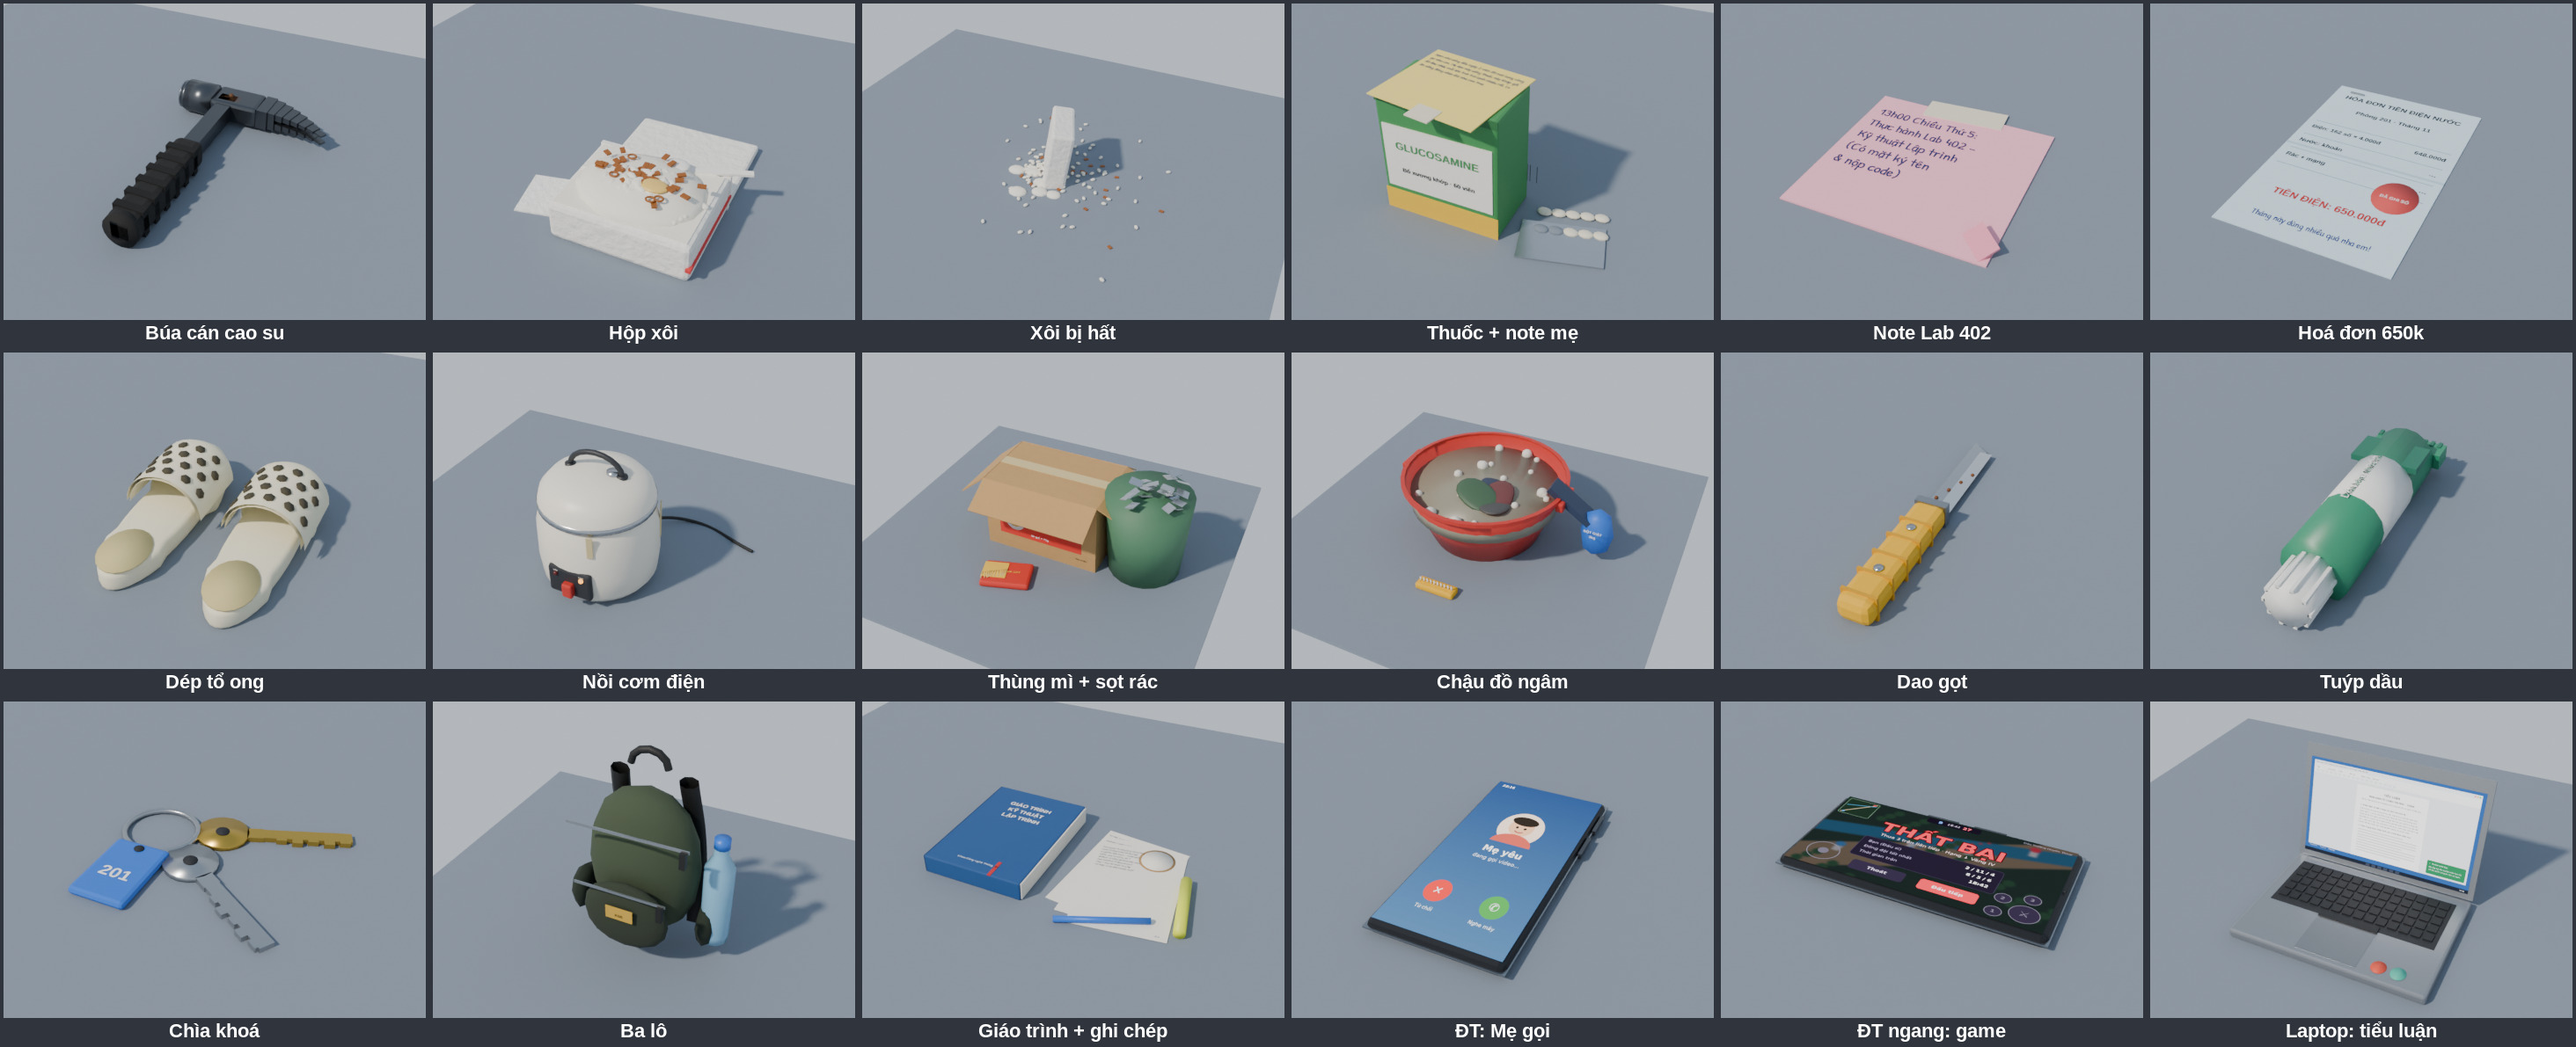
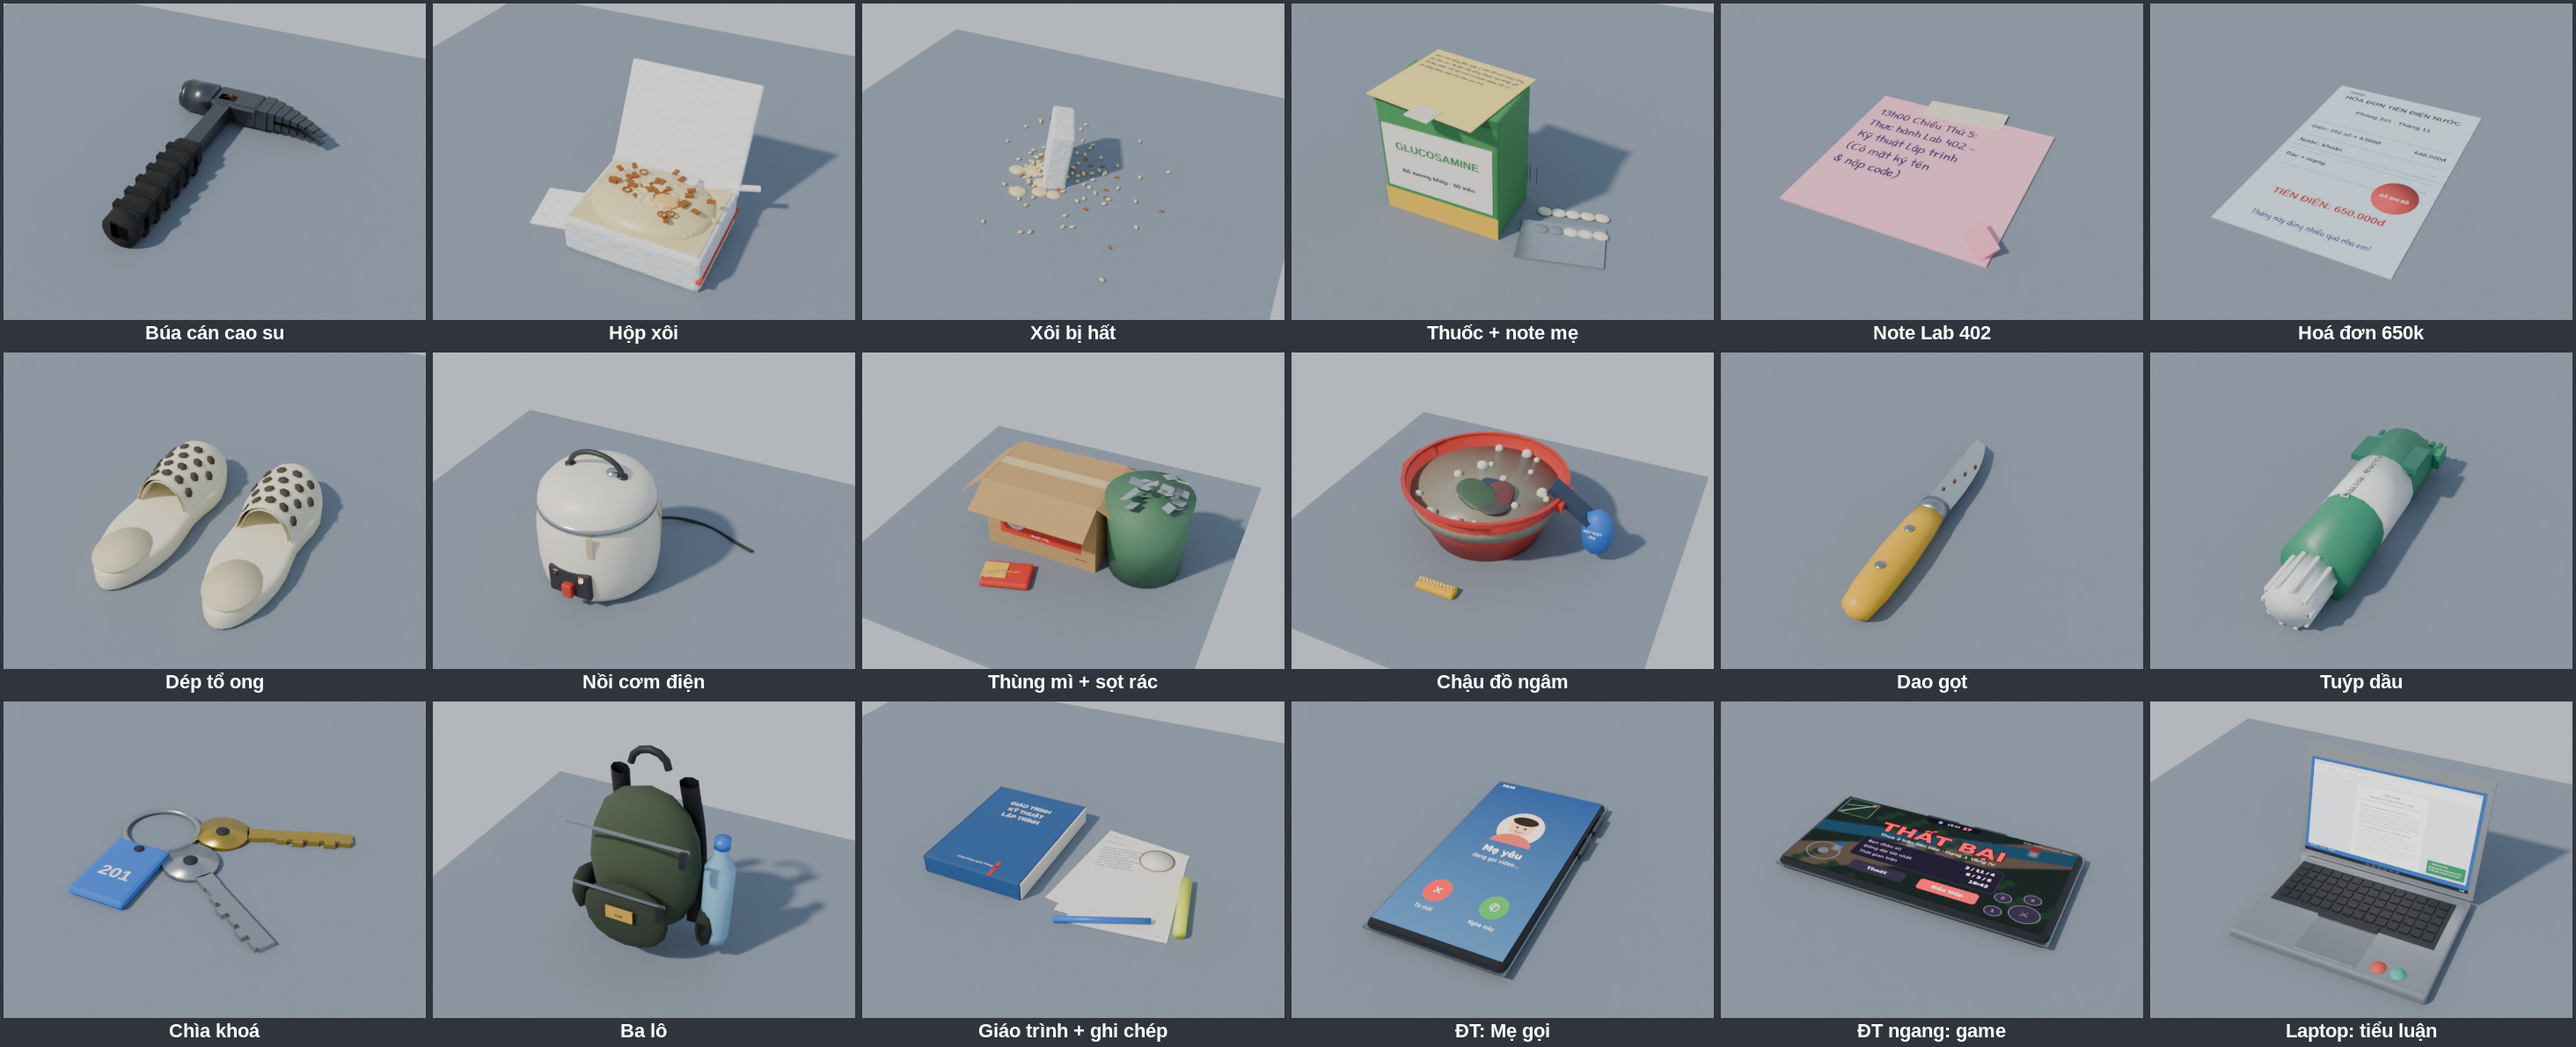
Đạo cụ: xôi khác màu hộp + nắp bản lề liền, dép quai bám đế, dao cán–lưỡi cùng trục
Claude-Session: https://claude.ai/code/session_015xtvRizeAKJ43Q56gvDXLR

diff --git a/episodes/hem-co-chuyen/ho-so-02-nguoi-lam-thay/assets/boi-canh-3d/dao_cu_ban_moi.py b/episodes/hem-co-chuyen/ho-so-02-nguoi-lam-thay/assets/boi-canh-3d/dao_cu_ban_moi.py
@@ -91,13 +91,26 @@ def tron_xoay(ten, pts, m, c, seg=36, x=0, y=0, z=0, dong_day=True):
     ob = bpy.data.objects.new(ten, me); c.objects.link(ob); return ob
 
 
+def _w_dep(y):
+    """Nửa bề rộng nền đế theo y, đổi mượt: gót 0,040 → eo 0,034 → mũi 0,046 (chưa nhân hệ số bo tròn đầu mũi/gót)."""
+    ss = lambda a: a * a * (3 - 2 * a)
+    if y <= -0.06: return 0.040
+    if y <= 0.0: return 0.040 - 0.006 * ss((y + 0.06) / 0.06)
+    if y <= 0.06: return 0.034 + 0.012 * ss(y / 0.06)
+    return 0.046
+
+
+def _r_quai(y):
+    """Bán kính quai tại y: bám đúng bề rộng đế tại y đó (nhỏ hơn 4 mm) nên quai ngồi lên đế, không chìa ra ngoài."""
+    return _w_dep(y) * math.sqrt(max(0.0, 1 - (y / 0.125) ** 2)) - 0.004
+
+
 def de_dep(ten, dx, m, c, day=0.024):
     """Đế dép hình bàn chân: mũi tròn rộng, eo thắt, gót tròn (đùn từ đường viền)."""
     bm = bmesh.new(); pts = []
     for i in range(40):
         t_ = 2 * math.pi * i / 40; y = 0.125 * math.sin(t_)
-        w = 0.046 if y > 0.03 else 0.034 if y > -0.06 else 0.04          # mũi rộng, eo, gót
-        pts.append((dx + w * math.cos(t_), y))
+        pts.append((dx + _w_dep(y) * math.cos(t_), y))                  # mũi rộng, eo, gót (đổi mượt)
     vb = [bm.verts.new((x_, y_, 0)) for x_, y_ in pts]; vt = [bm.verts.new((x_, y_, day)) for x_, y_ in pts]
     bm.faces.new(list(reversed(vb))); bm.faces.new(vt)
     for i in range(40): bm.faces.new((vb[i], vb[(i + 1) % 40], vt[(i + 1) % 40], vt[i]))
@@ -146,14 +159,15 @@ def hop_xoi(c, at, rz=0.0, do=False):
     """Hộp xôi trắng hành phi (hộp xốp nắp liền). do=True: hộp lật nghiêng trên sàn, xôi + hành văng tung toé (cảnh 2.4)."""
     rnd = random.Random(8)
     with _tao(c) as t:
-        xop = matt('#f4f2ec', 0.9, 0.05, 0.35, 90); xoi = mat('#f3efe2', 0.75); hanh = mat('#9a5a22', 0.6); mo = mat('#e9c46a', 0.4)
+        xop = matt('#e8ebed', 0.9, 0.05, 0.35, 90); xoi = mat('#e6d49a', 0.38); hanh = mat('#9a5a22', 0.6); mo = mat('#e9c46a', 0.4)
         L, Wd, Hh = 0.17, 0.13, 0.05
         if not do:
             K.box('dc_xoi_hop', -L / 2, L / 2, -Wd / 2, Wd / 2, 0, Hh, xop, c, bevel=0.006)
             K.box('dc_xoi_long', -L / 2 + 0.006, L / 2 - 0.006, -Wd / 2 + 0.006, Wd / 2 - 0.006, Hh - 0.004, Hh + 0.001, xoi, c)
             K.sphere('dc_xoi_u', 0, 0, Hh, 0.06, xoi, c, scale=(1.3, 1, 0.35), seg=16)
-            K.box('dc_xoi_nap', -L / 2, L / 2, Wd / 2 + 0.002, Wd / 2 + Wd, 0, 0.012, xop, c, bevel=0.004)   # nắp liền lật ngửa ra sau
-            K.box('dc_xoi_ban_le', -L / 2, L / 2, Wd / 2 - 0.002, Wd / 2 + 0.004, 0.0, Hh, xop, c)
+            K.box('dc_xoi_ban_le', -L / 2, L / 2, Wd / 2 - 0.003, Wd / 2 + 0.003, Hh - 0.008, Hh + 0.002, xop, c)      # bản lề liền thân hộp
+            al = math.radians(62); nap = K.box('dc_xoi_nap', -L / 2, L / 2, -Wd / 2, Wd / 2, -0.0035, 0.0035, xop, c, bevel=0.003, rot=(al, 0, 0))   # nắp lật dựng ra sau, xoay quanh đúng mép bản lề
+            nap.location = (0, Wd / 2 + 0.002 + math.cos(al) * Wd / 2, Hh - 0.002 + math.sin(al) * Wd / 2)
             for i in range(40):
                 a = rnd.uniform(0, 6.28); r = rnd.uniform(0, 0.06)
                 K.box(f'dc_xoi_hanh_{i}', -0.005, 0.005, -0.003, 0.003, 0, 0.002, hanh, c, rot=(0, 0, a)).location = (r * math.cos(a) * 1.2, r * math.sin(a) * 0.8, Hh + 0.018 + rnd.uniform(0, 0.004))
@@ -253,7 +267,7 @@ def dep_to_ong(c, at, rz=0.0):
     """Đôi dép tổ ong: đế hình bàn chân (mũi rộng, eo, gót), quai liền mũi khum tròn phủ 2/3 trước, lưới lỗ lục giác 4 hàng,
     nhựa trắng ố vàng, gót mòn vẹt (đế mỏng hẳn + sẫm màu), mép quai bẩn."""
     with _tao(c) as t:
-        nhua = mat('#efe9cc', 0.7); o = mat('#cdbf86', 0.85); lo = mat('#4a4535', 0.95); ban = mat('#9c9070', 0.9)
+        nhua = mat('#efe9cc', 0.7); o = mat('#ddd2aa', 0.85); lo = mat('#4a4535', 0.95); ban = mat('#9c9070', 0.9)
         for s_, dx, goc in (('trai', -0.058, 0), ('phai', 0.058, 0)):
             de = de_dep(f'dc_dep_de_{s_}', dx, nhua, c)
             g_ = K.cyl(f'dc_dep_got_mon_{s_}', dx, -0.088, 0.0245, 0.026, 0.0012, o, c, seg=20); g_.scale = (1, 1.35, 1)   # vệt gót mòn sẫm màu trên mặt đế
@@ -262,9 +276,9 @@ def dep_to_ong(c, at, rz=0.0):
             for k, y_ in enumerate(ys):
                 sc_ = 1.0 if y_ < 0.08 else max(0.35, 1 - (y_ - 0.08) / 0.06)
                 for side in (0, 1):
-                    r = 0.046 * sc_ - side * 0.004
+                    r = _r_quai(y_) - side * 0.004
                     for i in range(seg + 1):
-                        a_ = math.pi * i / seg; bm.verts.new((dx + r * math.cos(a_), y_, 0.022 + 0.042 * sc_ * math.sin(a_) * (1 - side * 0.08)))
+                        a_ = math.pi * i / seg; bm.verts.new((dx + r * math.cos(a_), y_, 0.016 + 0.042 * sc_ * math.sin(a_) * (1 - side * 0.08)))
             bm.verts.ensure_lookup_table(); n_ = seg + 1
             def V(k, side, i): return bm.verts[(k * 2 + side) * n_ + i]
             for k in range(len(ys) - 1):
@@ -277,10 +291,9 @@ def dep_to_ong(c, at, rz=0.0):
             for hang in range(4):          # lỗ lục giác (tổ ong) trên lưng quai
                 for j in range(5 if hang % 2 == 0 else 4):
                     a_ = math.radians(35 + 27.5 * j + (13.75 if hang % 2 else 0)); y_ = 0.005 + 0.019 * hang
-                    r = 0.0462
-                    h_ = K.cyl(f'dc_dep_lo_{s_}_{hang}_{j}', dx + r * math.cos(a_), y_, 0.022 + 0.042 * math.sin(a_), 0.0062, 0.0015, lo, c, seg=6)
-                    h_.rotation_euler = (0, math.pi / 2 - a_, 0); h_.rotation_mode = 'XYZ'
-                    h_.rotation_euler = (Vector((math.cos(a_), 0, math.sin(a_))).to_track_quat('Z', 'Y')).to_euler()
+                    r = _r_quai(y_) + 0.0004
+                    h_ = K.cyl(f'dc_dep_lo_{s_}_{hang}_{j}', dx + r * math.cos(a_), y_, 0.016 + 0.042 * math.sin(a_), 0.0058, 0.0015, lo, c, seg=6)
+                    h_.rotation_euler = (Vector((math.cos(a_) / r, 0, math.sin(a_) / 0.042)).normalized().to_track_quat('Z', 'Y')).to_euler()
             for o_ in (de, q): o_.rotation_euler = (0, 0, math.radians(goc)); o_.location = (dx * (1 - math.cos(math.radians(goc))), 0, 0)
     return _nhom('dep_to_ong', at, rz, t.moi, c)
 
@@ -379,23 +392,45 @@ def chau_quan_ao(c, at, rz=0.0):
     return _nhom('chau_quan_ao', at, rz, t.moi, c)
 
 
+def _loft(ten, st, m, c, n=16, mem=True):
+    """Đùn mặt cắt elip theo các trạm st=[(y, cx, cz, rx, rz)] dọc trục y (hai đầu bịt kín) → khối tròn liền, không ghép hộp."""
+    bm = bmesh.new()
+    for (y, cx, cz, rx, rz_) in st:
+        for i in range(n): a_ = 2 * math.pi * i / n; bm.verts.new((cx + rx * math.cos(a_), y, cz + rz_ * math.sin(a_)))
+    bm.verts.ensure_lookup_table()
+    for k in range(len(st) - 1):
+        for i in range(n): bm.faces.new((bm.verts[k * n + i], bm.verts[k * n + (i + 1) % n], bm.verts[(k + 1) * n + (i + 1) % n], bm.verts[(k + 1) * n + i]))
+    bm.faces.new([bm.verts[i] for i in reversed(range(n))]); bm.faces.new([bm.verts[(len(st) - 1) * n + i] for i in range(n)])
+    bmesh.ops.recalc_face_normals(bm, faces=bm.faces)
+    me = bpy.data.meshes.new(ten); bm.to_mesh(me); bm.free(); me.materials.append(m)
+    for p_ in me.polygons: p_.use_smooth = mem
+    ob = bpy.data.objects.new(ten, me); c.objects.link(ob); return ob
+
+
 def dao_got(c, at, rz=0.0):
-    """Dao gọt hoa quả cán nhựa vàng (giấu dưới mép nệm). Nằm dọc y, mũi dao ở +y."""
+    """Dao gọt hoa quả cán nhựa vàng (giấu dưới mép nệm). Nằm dọc y, mũi dao ở +y. Cán tròn bầu + khâu thép + lưỡi cong cùng một trục (z = 0,009)."""
     with _tao(c) as t:
-        vang = mat('#f2b705', 0.45); thep = mat('#b9bec4', 0.2, 0.95)
-        K.box('dc_dao_can', -0.011, 0.011, 0.0, 0.1, 0.0, 0.016, vang, c, bevel=0.005)
-        for i in range(2): K.cyl(f'dc_dao_dinh_{i}', 0, 0.03 + 0.04 * i, 0.016, 0.003, 0.001, thep, c, seg=8)
-        bm = bmesh.new()
-        v = [bm.verts.new(p) for p in ((-0.009, 0.1, 0.002), (0.009, 0.1, 0.002), (0.004, 0.19, 0.002), (-0.009, 0.2, 0.002),
-                                      (-0.009, 0.1, 0.004), (0.009, 0.1, 0.004), (0.004, 0.19, 0.004), (-0.009, 0.2, 0.004))]
-        for f in ((0, 1, 2, 3), (7, 6, 5, 4), (0, 4, 5, 1), (1, 5, 6, 2), (2, 6, 7, 3), (3, 7, 4, 0)): bm.faces.new([v[i] for i in f])
+        vang = mat('#f2b705', 0.4); thep = mat('#c9ced3', 0.22, 0.95); khau = mat('#9aa0a6', 0.3, 0.9); gi = mat('#7a4a28', 0.9)
+        ZC = 0.009
+        _loft('dc_dao_can', [(0.0, 0, ZC, 0.003, 0.003), (0.004, 0, ZC, 0.0090, 0.0078), (0.02, 0, ZC, 0.0112, 0.0090), (0.05, 0, ZC, 0.0122, 0.0094),
+                             (0.08, 0, ZC, 0.0112, 0.0088), (0.095, 0, ZC, 0.0100, 0.0078)], vang, c)                    # cán: đuôi bo tròn, giữa phình, cổ thon
+        _loft('dc_dao_khau', [(0.094, 0, ZC, 0.0104, 0.0082), (0.106, 0, ZC, 0.0104, 0.0082)], khau, c)                    # khâu thép nối cán–lưỡi (ôm sát đầu cán)
+        ys = [0.105, 0.115, 0.13, 0.145, 0.16, 0.172, 0.183, 0.192, 0.2]
+        xe = [0.0100, 0.0105, 0.0108, 0.0104, 0.0092, 0.0072, 0.0046, 0.0018, -0.0080]; xs = -0.0080
+        bm = bmesh.new(); st = []
+        for y, e in zip(ys, xe):
+            h = 0.0017 - 0.0013 * (y - 0.105) / 0.095
+            st.append((bm.verts.new((xs, y, ZC + h)), bm.verts.new((xs, y, ZC - h)), bm.verts.new((e, y, ZC))))
+        for (A0, B0, C0), (A1, B1, C1) in zip(st[:-1], st[1:]):
+            for q in ((A0, A1, C1, C0), (C0, C1, B1, B0), (B0, B1, A1, A0)):
+                try: bm.faces.new(q)
+                except ValueError: bm.faces.new([v for i, v in enumerate(q) if v not in q[:i]])
+        bm.faces.new(st[0]); bmesh.ops.recalc_face_normals(bm, faces=bm.faces)
         me = bpy.data.meshes.new('dc_dao_luoi'); bm.to_mesh(me); bm.free(); me.materials.append(thep)
-        ob = bpy.data.objects.new('dc_dao_luoi', me); c.objects.link(ob)
-        K.box('dc_dao_luoi_vat', -0.0005, 0.009, 0.1, 0.188, 0.0041, 0.0043, mat('#e3e6ea', 0.1, 1.0), c)           # dải lưỡi vát mài sáng
-        K.box('dc_dao_khau', -0.011, 0.011, 0.097, 0.103, 0.0, 0.016, mat('#9aa0a6', 0.3, 0.9), c)                  # khâu nối cán–lưỡi
-        for i in range(5): K.box(f'dc_dao_ranh_{i}', -0.0112, 0.0112, 0.008 + 0.017 * i, 0.010 + 0.017 * i, 0.0, 0.0165, mat('#d49a04', 0.5), c)   # rãnh cầm trên cán
-        for i in range(4): K.sphere(f'dc_dao_gi_{i}', -0.006 + 0.004 * i, 0.12 + 0.012 * i, 0.0041, 0.0015, mat('#7a4a28', 0.9), c, seg=6)
-        grip('dao', 0, 0.05, 0.008, c)
+        c.objects.link(bpy.data.objects.new('dc_dao_luoi', me))                                                               # lưỡi: sống dày, mép mỏng, mũi nhọn
+        for i in range(2): K.sphere(f'dc_dao_dinh_{i}', 0, 0.032 + 0.036 * i, ZC + 0.0090, 0.0034, khau, c, scale=(1, 1, 0.35), seg=10)   # đinh tán nằm trên mặt cán
+        for i in range(4): K.sphere(f'dc_dao_gi_{i}', -0.003 + 0.003 * i, 0.125 + 0.012 * i, ZC + 0.0016 - 0.0002 * i, 0.0013, gi, c, seg=6)
+        grip('dao', 0, 0.05, ZC, c)
     return _nhom('dao_got', at, rz, t.moi, c)
 
 
